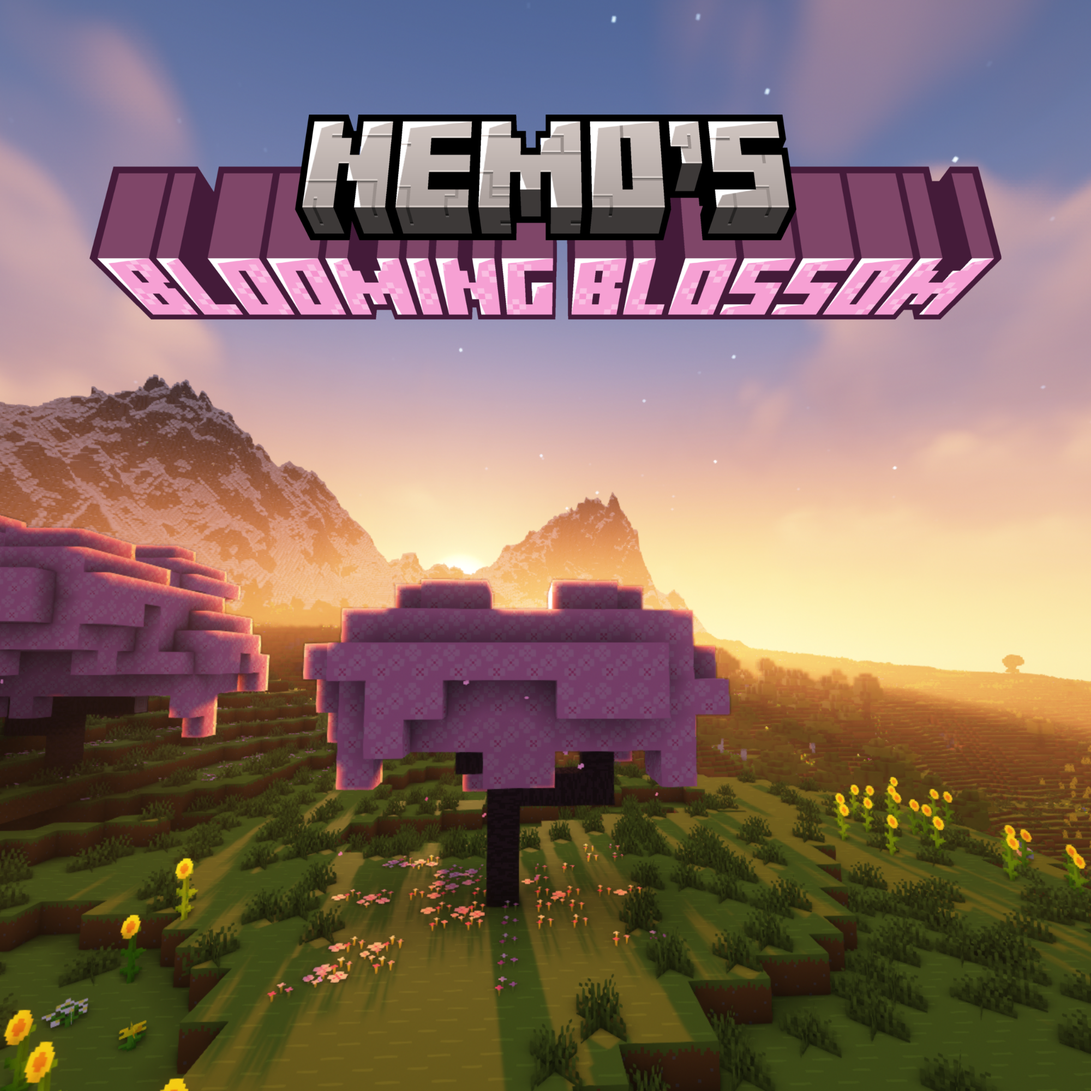
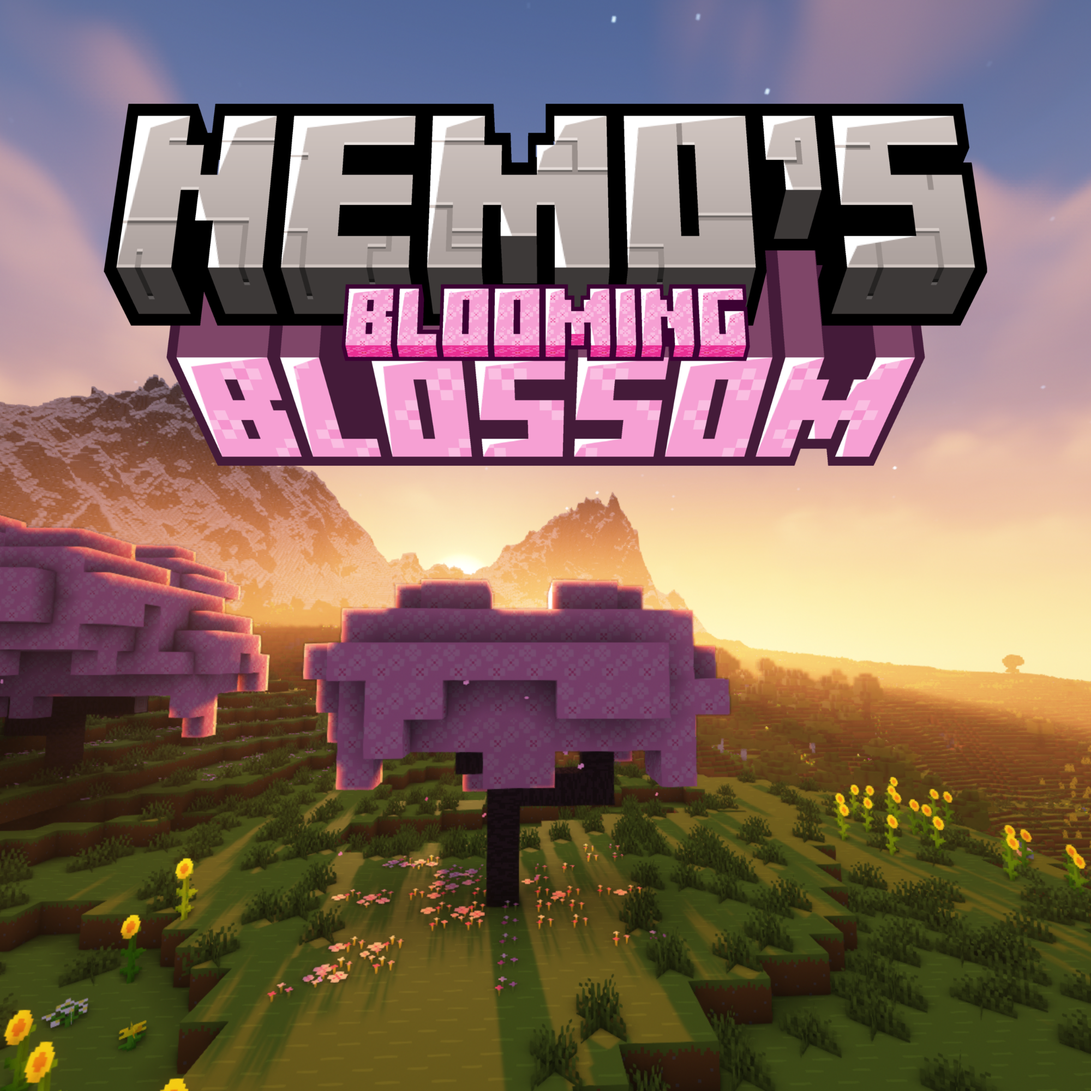
Update 1.2.0
(cherry picked from commit ce576893f05e5669ee79d3979bf032fdc15d7a7e)

Changed region(s): [[0.062, 0.093, 0.93, 0.434]]

diff --git a/src/main/java/com/nemonotfound/bloomingblossom/mixin/FlowerBlockMixin.java b/src/main/java/com/nemonotfound/bloomingblossom/mixin/FlowerBlockMixin.java
@@ -1,0 +1,31 @@
+package com.nemonotfound.bloomingblossom.mixin;
+
+import net.minecraft.block.BlockState;
+import net.minecraft.block.Fertilizable;
+import net.minecraft.block.FlowerBlock;
+import net.minecraft.item.ItemStack;
+import net.minecraft.server.world.ServerWorld;
+import net.minecraft.util.math.BlockPos;
+import net.minecraft.util.math.random.Random;
+import net.minecraft.world.World;
+import net.minecraft.world.WorldView;
+import org.spongepowered.asm.mixin.Mixin;
+
+@Mixin(FlowerBlock.class)
+public class FlowerBlockMixin implements Fertilizable {
+
+    @Override
+    public boolean isFertilizable(WorldView world, BlockPos pos, BlockState state) {
+        return true;
+    }
+
+    @Override
+    public boolean canGrow(World world, Random random, BlockPos pos, BlockState state) {
+        return true;
+    }
+
+    @Override
+    public void grow(ServerWorld world, Random random, BlockPos pos, BlockState state) {
+        FlowerBlock.dropStack(world, pos, new ItemStack(state.getBlock()));
+    }
+}

diff --git a/src/main/java/com/nemonotfound/bloomingblossom/mixin/WitherRoseBlockMixin.java b/src/main/java/com/nemonotfound/bloomingblossom/mixin/WitherRoseBlockMixin.java
@@ -1,0 +1,31 @@
+package com.nemonotfound.bloomingblossom.mixin;
+
+import net.minecraft.block.BlockState;
+import net.minecraft.block.Fertilizable;
+import net.minecraft.block.WitherRoseBlock;
+import net.minecraft.server.world.ServerWorld;
+import net.minecraft.util.math.BlockPos;
+import net.minecraft.util.math.random.Random;
+import net.minecraft.world.World;
+import net.minecraft.world.WorldView;
+import org.spongepowered.asm.mixin.Mixin;
+
+@Mixin(WitherRoseBlock.class)
+public class WitherRoseBlockMixin implements Fertilizable {
+
+
+    @Override
+    public boolean isFertilizable(WorldView world, BlockPos pos, BlockState state) {
+        return false;
+    }
+
+    @Override
+    public boolean canGrow(World world, Random random, BlockPos pos, BlockState state) {
+        return false;
+    }
+
+    @Override
+    public void grow(ServerWorld world, Random random, BlockPos pos, BlockState state) {
+
+    }
+}

diff --git a/Changelog.md b/Changelog.md
@@ -1,8 +1,8 @@
-# Changelog v1.1.1
+# Changelog v1.2.0
 
 ## Changes
-- Changed icon
-- Changed mod id
+- You can now bone meal flowers to get more flowers of this type (except wither roses)
+- Updated the mod icon
 
 ### Downloads
 [CurseForge](https://www.curseforge.com/minecraft/mc-mods/nemos-blooming-blossom) <br>
